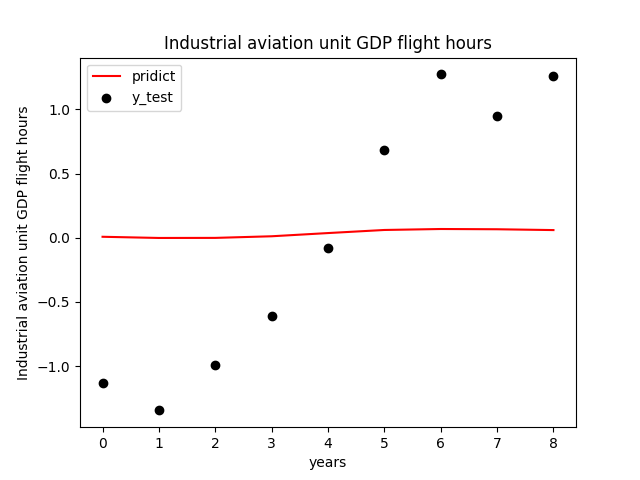
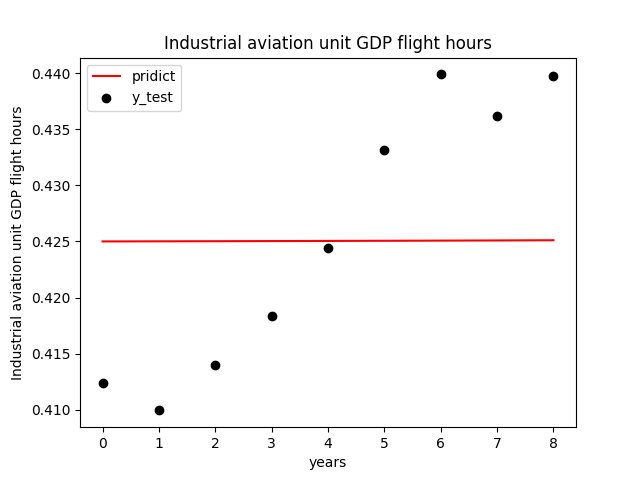
fix some bug and using rever std data to prefict

diff --git a/script/single_svr.py b/script/single_svr.py
@@ -23,17 +23,26 @@ df = df.dropna(axis=0,how='all')
 # x=df[['GDP','工业总产值','铁路运输长度','复线比例','公路运输长度','等级公路比重','铁路货运数量','民用载货车辆']]
 # y=df[['货运量']]
 x = df[['x1','x2','x3','x4','x5','x6','x7']]
-y = df[['y3']]
+y = df[['y1']]
 # 拆分数据集
 # x_train,x_test,y_train,y_test=train_test_split(x,y,test_size=0.7,random_state=10)
-x_train,x_test,y_train,y_test = x[:-7],x[10:],y[:-7],y[10:]
+x_train,x_test,y_train,y_test = x[:-7],x[9:],y[:-7],y[9:]
 # 预处理
 y_train = np.array(y_train).reshape(-1, 1)
 y_test = np.array(y_test).reshape(-1, 1)
-x_train = StandardScaler().fit_transform(x_train)
-x_test = StandardScaler().fit_transform(x_test)
-y_train = StandardScaler().fit_transform(y_train).ravel()
-y_test = StandardScaler().fit_transform(y_test).ravel()
+# x_train = StandardScaler().fit_transform(x_train) # 先拟合、再标准化
+scaler1 = StandardScaler().fit(x_train)
+x_train = scaler1.transform(x_train)
+# x_train = StandardScaler().fit(x_train) # 拟合
+# x_test = StandardScaler().fit_transform(x_test)
+
+scaler2 = StandardScaler().fit(x_test)
+x_test = scaler2.transform(x_test)
+# x_test = StandardScaler().transform(x_test) # 只标准化、不拟合
+# y_train = StandardScaler().fit_transform(y_train).ravel()
+scaler3 = StandardScaler().fit(y_train)
+y_train = scaler3.transform(y_train)
+# y_test = StandardScaler().fit_transform(y_test).ravel()
 
 #创建svR实例
 svr=SVR(C=1, kernel='rbf', epsilon=0.2)
@@ -42,6 +51,21 @@ svr=svr.fit(x_train,y_train)
 svr_predict=svr.predict(x_train)
 score = svr.score(x_train,y_train)
 pridict = svr.predict(x_test)
+
+# 为了反标转化，需要将数据扩展为2维numpy
+# numpy.array(a).reshape(len(a),1)  # reshape(列的长度，行的长度)
+
+svr_predict = np.array(svr_predict).reshape(len(svr_predict),1)
+pridict = np.array(pridict).reshape(len(pridict),1)
+
+# 使用sklearn进行数据的归一化和归一化还原
+# # invers_tainsform()
+# pridict = StandardScaler().fit(pridict.reshape(-1, 1)).inverse_transform(pridict.reshape(-1, 1))
+# y_train = StandardScaler().fit(y_train.reshape(-1, 1)).inverse_transform(y_train.reshape(-1, 1))
+# svr_predict = StandardScaler().fit(svr_predict.reshape(-1, 1)).inverse_transform(svr_predict.reshape(-1, 1))
+y_train = scaler3.inverse_transform(y_train)
+svr_predict = scaler3.inverse_transform(svr_predict)
+pridict = scaler3.inverse_transform(pridict)
 
 #打印未来预测值
 print(f'predict futrue: {pridict}')

diff --git a/core/svr.py b/core/svr.py
@@ -1,5 +1,6 @@
 from utils.utils import _read_csv_,_darw
 from sklearn import svm
+import numpy as np
 
 
 def _MSE(p, label):
@@ -27,7 +28,7 @@ def _SVR(v, x, b):
     :return:
     '''
     path = '/Users/kanghaidong/Desktop/haidong/github-reper/Machine-learning-regression-algorithm/data/hangkongshuju.csv'
-    x_train, x_test, y_train, y_test=_read_csv_(path)
+    x_train, x_test, y_train, y_test, scaler =_read_csv_(path)
 
     c = x[0]
     e = x[1]
@@ -36,6 +37,17 @@ def _SVR(v, x, b):
     _SVR.fit(x_train, y_train)
     y_pred = _SVR.predict(x_train) # np.array
     pridict = _SVR.predict(x_test)
+    score = _SVR.score(x_train, y_train)
+
+    # 为了反标转化，需要将数据扩展为2维numpy
+    # numpy.array(a).reshape(len(a),1)  # reshape(列的长度，行的长度)
+
+    y_pred = np.array(y_pred).reshape(len(y_pred), 1)
+    pridict = np.array(pridict).reshape(len(pridict), 1)
+
+    y_train = scaler.inverse_transform(y_train)
+    y_pred = scaler.inverse_transform(y_pred)
+    pridict = scaler.inverse_transform(pridict)
 
     # 打印未来预测值
     print(f'predict futrue: {pridict}')
@@ -45,7 +57,6 @@ def _SVR(v, x, b):
     # print(len(y_pred),len(y_test))
     # 返回svm的mse作为适应度值
     # y_test = y_test.values # Pandas中把dataframe和np.array的相互转换
-    score = _SVR.score(x_train, y_train)
     print(f"score{score}")
     _darw(y_train, y_pred, 'y_test', 'pridict', 'r', 'years', 'Industrial aviation unit GDP flight hours', 'Industrial aviation unit GDP flight hours')
 

diff --git a/utils/utils.py b/utils/utils.py
@@ -95,15 +95,24 @@ def _read_csv_(path):
     # y = boston_data.target
     # x_train, x_test, y_train, y_test = train_test_split(X, y, test_size=0.2, random_state=10)
     # x_train, x_test, y_train, y_test = X,X,y,y
-    x_train, x_test, y_train, y_test = X[:-7], X[10:], y[:-7], y[10:]
+    x_train, x_test, y_train, y_test = X[:-7], X[9:], y[:-7], y[9:]
     # 预处理
     y_train = np.array(y_train).reshape(-1, 1)
     y_test = np.array(y_test).reshape(-1, 1)
-    x_train = StandardScaler().fit_transform(x_train)
-    x_test = StandardScaler().fit_transform(x_test)
-    y_train = StandardScaler().fit_transform(y_train).ravel()
-    y_test = StandardScaler().fit_transform(y_test).ravel()
-    return x_train, x_test, y_train, y_test
+    # x_train = StandardScaler().fit_transform(x_train) # 先拟合、再标准化
+    scaler1 = StandardScaler().fit(x_train)
+    x_train = scaler1.transform(x_train)
+    # x_train = StandardScaler().fit(x_train) # 拟合
+    # x_test = StandardScaler().fit_transform(x_test)
+
+    scaler2 = StandardScaler().fit(x_test)
+    x_test = scaler2.transform(x_test)
+    # x_test = StandardScaler().transform(x_test) # 只标准化、不拟合
+    # y_train = StandardScaler().fit_transform(y_train).ravel()
+    scaler3 = StandardScaler().fit(y_train)
+    y_train = scaler3.transform(y_train)
+    # y_test = StandardScaler().fit_transform(y_test).ravel()
+    return x_train, x_test, y_train, y_test, scaler3
 
 
 def _read_csv_huoyun(path):

diff --git a/core/_gs_svr.py b/core/_gs_svr.py
@@ -9,7 +9,7 @@ def _gs_svr(path):
     :param path:
     :return:
     '''
-    x_train, x_test, y_train, y_test = _read_csv_(path)
+    x_train, x_test, y_train, y_test, scalar = _read_csv_(path)
 
     # 设置超参数
     C = [0.1, 0.2, 0.5, 0.8, 0.9, 1, 2, 5, 10]

diff --git a/core/1.py b/core/1.py
@@ -1,0 +1,7 @@
+from sklearn.preprocessing import StandardScaler
+import numpy as np
+X_train = np.array([[ 1., -1.,  2.],
+                    [ 2.,  0.,  0.],
+                    [ 0.,  1., -1.]])
+scaler = StandardScaler().fit(X_train)
+print(scaler.mean_)
